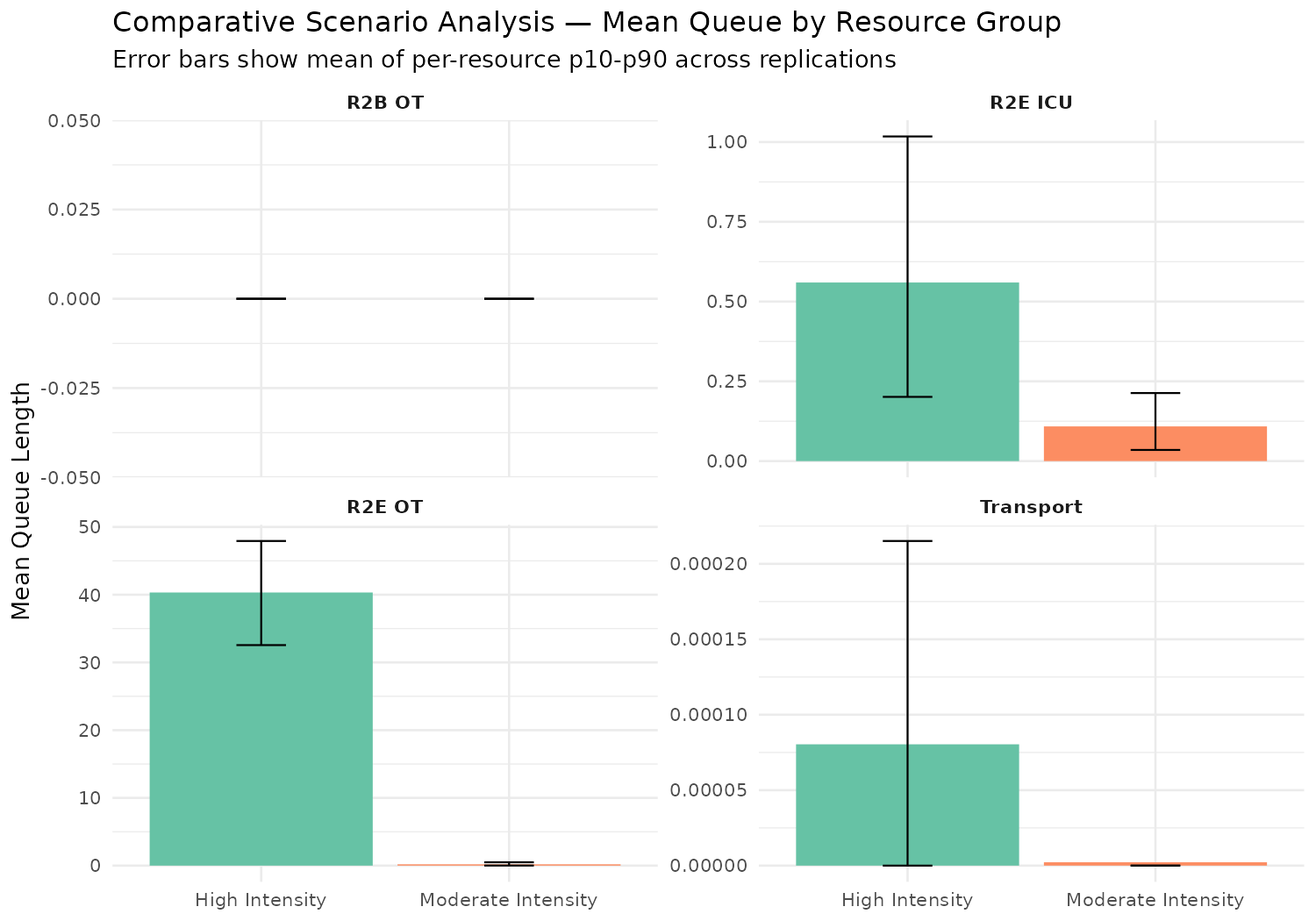
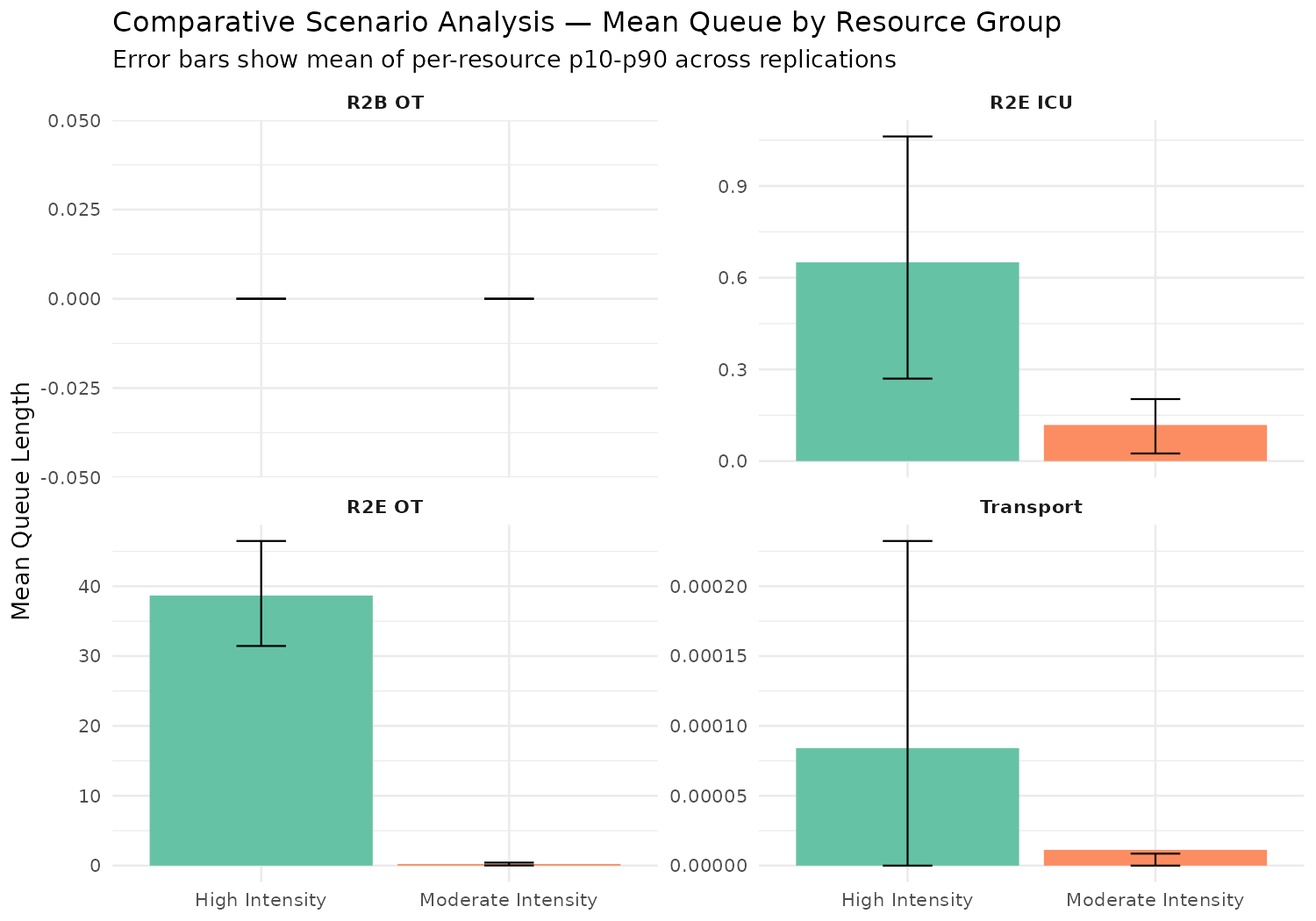
docs(issue-203): re-measure the comparative scenario tables without the rate cap
Total casualties per run are unmoved against the solved parameterisation the
cap removal replaced (moderate_intensity 441.5 to 441.6, high_intensity 1015.2
to 1015.7), which is the clearest confirmation that the two configurations
differ only in one draw rather than in distribution.

Every ratio between the profiles compresses against the pre-Issue-203
measurement, for a reason worth recording: moderate_intensity draws all six
streams from lognormals whose WIA and KIA arms had been realising about 79% of
their configured means, while high_intensity overrides its WIA and KIA streams
to exponential and those had been realising 95%. The baseline arm therefore
rises by a sixth and the surge arm by a twentieth, so the headline R2E theatre
queue ratio falls from roughly 430 to roughly 170 largely through its
denominator, the high_intensity queue itself moving only from 39.3 to 38.7.

The died-of-wounds rows are flagged as not a movement. Each is a single
50-replication measurement of a response averaging one death per replication,
resolved only to about a tenth of a percentage point at that count, and the
150-replication pooled treated-cohort figure for the same profile moved only
from 0.279% to 0.290% across the same change.

Refs #203

diff --git a/docs/Multi_Run_Analysis.md b/docs/Multi_Run_Analysis.md
@@ -6,7 +6,7 @@
 
 This document presents a multi-run (n≥30 replications, 95% confidence intervals) comparative analysis of the Battlefield Casualty Handling discrete event simulation under two named casualty-rate scenario profiles: `moderate_intensity` (a Falklands 1982-modified baseline, the same casualty rate underlying the illustrative single-run analysis in `docs/Single_Run_Analysis.md`) and `high_intensity` (an Okinawa exemplar, calibrated from FORECAS Tables A.7/A.9 [[1]](#references)). Where the single-run document establishes what the modelled deployed health system does under one seed and one casualty-rate assumption, this document establishes whether those findings are an artefact of that single draw and how the same system responds when casualty production is scaled to a materially higher intensity, using the project's multi-run replication framework, which executes independent stochastic replications of the discrete event simulation and aggregates outcomes as mean, 95% confidence interval, and p10–p90 range across runs.
 
-Across 50 replications of each scenario (30 simulated days, seed 42), the comparison confirms that the current establishment's adequacy conclusion does not extrapolate from Falklands to Okinawa intensity: mean total casualties per run rise 2.30-fold, the R2E Operating Theatre mean queue rises approximately 210-fold, the R2E Intensive Care Unit mean queue rises approximately 5.1-fold from a low base, the R2E Holding bed mean queue rises approximately 5.9-fold from a base already materially non-zero, and the R2B Holding bed mean queue rises approximately 6.8-fold, while R2B OT queue remains at zero in both scenarios — not because R2B absorbs any of the surge, but because the model's existing bypass routing diverts all surgical overflow to an already-saturated R2E. Died-of-wounds rate as a proportion of WIA rises from 0.44% to 1.03%. Transport (PMV Ambulance / HX240M) remains the one echelon with genuine headroom at both intensities.
+Across 50 replications of each scenario (30 simulated days, seed 42), the comparison confirms that the current establishment's adequacy conclusion does not extrapolate from Falklands to Okinawa intensity: mean total casualties per run rise 2.30-fold, the R2E Operating Theatre mean queue rises approximately 170-fold, the R2E Intensive Care Unit mean queue rises approximately 5.5-fold from a low base, the R2E Holding bed mean queue rises approximately 5.3-fold from a base already materially non-zero, and the R2B Holding bed mean queue rises approximately 7.2-fold, while R2B OT queue remains at zero in both scenarios — not because R2B absorbs any of the surge, but because the model's existing bypass routing diverts all surgical overflow to an already-saturated R2E. Died-of-wounds rate as a proportion of WIA rises from 0.55% to 0.90%. Transport (PMV Ambulance / HX240M) remains the one echelon with genuine headroom at both intensities.
 
 ## Contents
 
@@ -43,7 +43,7 @@ Two scenarios are compared — `moderate_intensity` (Falklands 1982 exemplar) an
 Rscript scripts/run_scenarios.R --scenarios moderate_intensity,high_intensity --iterations 50 --days 30 --seed 42
 ```
 
-`moderate_intensity` total casualties (441.5, 95% CI [441.1, 441.9]) match the documented seed-42 single-run baseline (443, `CLAUDE.md` Key Parameters) within 0.4%, confirming that the comparative runner reproduces the single-run baseline under the Falklands profile it is scenario-explicit about, consistent with the scenario mechanism's no-op guarantee for `default`.
+`moderate_intensity` total casualties (441.6, 95% CI [441.0, 442.2]) match the documented seed-42 single-run baseline (437, `CLAUDE.md` Key Parameters) within 1.1%, confirming that the comparative runner reproduces the single-run baseline under the Falklands profile it is scenario-explicit about, consistent with the scenario mechanism's no-op guarantee for `default`.
 
 ---
 
@@ -55,35 +55,35 @@ Rscript scripts/run_scenarios.R --scenarios moderate_intensity,high_intensity --
 
 | Metric | `moderate_intensity` (Falklands) | `high_intensity` (Okinawa) | Ratio |
 |---|---|---|---|
-| Total casualties/run | 441.5 (p10–p90: 440.0–443.0) | 1,015.2 (p10–p90: 1,012.0–1,019.0) | 2.30× |
-| WIA/run | 190.0 (189.0–191.0) | 686.6 (684.0–689.1) | 3.61× |
-| DOW/run | 0.84 (0–2.0) | 7.04 (3.0–11.0) | 8.38× |
-| DOW/WIA rate | 0.44% (95% CI [0.32%, 0.56%]) | 1.03% (95% CI [0.90%, 1.15%]) | 2.32× |
+| Total casualties/run | 441.6 (p10–p90: 439.0–444.1) | 1,015.7 (p10–p90: 1,012.9–1,019.0) | 2.30× |
+| WIA/run | 189.8 (188.0–192.0) | 686.8 (683.9–690.0) | 3.62× |
+| DOW/run | 1.04 (0–2.0) | 6.18 (3.0–10.0) | 5.94× |
+| DOW/WIA rate | 0.55% (95% CI [0.40%, 0.69%]) | 0.90% (95% CI [0.79%, 1.01%]) | 1.64× |
 
-The two died-of-wounds rows are each a single 50-replication measurement of a response averaging well under one death per replication at Falklands load, and 50 replications resolve a died-of-wounds rate only to roughly ±0.13 percentage points (see the README's [Further Development](../README.md#further-development) entry L22 for where that figure comes from). The intervals shown are correctly specified, the replications behind them being independent of one another (see the README's [Multi-run Replication Framework](../README.md#multi-run-replication-framework)); they are simply wide, and the `moderate_intensity` figure moves between control seeds by about as much as the interval spans. The figure to quote for that profile is therefore the 150-replication pooled one in the README's [Scenario Profiles](../README.md#scenario-profiles), 0.279% (95% CI [0.227%, 0.331%]) on the treated cohort, which this table's single measurement is one draw around, and the ratio between the two profiles should be read as approximate for the same reason. The queue rows below are better resolved at the same replication count: they are time-weighted occupancy measures with far more events behind each replication.
+The two died-of-wounds rows are each a single 50-replication measurement of a response averaging well under one death per replication at Falklands load, and 50 replications resolve a died-of-wounds rate only to roughly ±0.13 percentage points (see the README's [Further Development](../README.md#further-development) entry L22 for where that figure comes from). The intervals shown are correctly specified, the replications behind them being independent of one another (see the README's [Multi-run Replication Framework](../README.md#multi-run-replication-framework)); they are simply wide, and the `moderate_intensity` figure moves between control seeds by about as much as the interval spans. The figure to quote for that profile is therefore the 150-replication pooled one in the README's [Scenario Profiles](../README.md#scenario-profiles), 0.290% (95% CI [0.240%, 0.340%]) on the treated cohort, which this table's single measurement is one draw around, and the ratio between the two profiles should be read as approximate for the same reason. The queue rows below are better resolved at the same replication count: they are time-weighted occupancy measures with far more events behind each replication.
 
 ### Resource Queue Comparison (mean of per-resource mean queue, by group)
 
 | Resource group | `moderate_intensity` mean queue | `high_intensity` mean queue | Ratio |
 |---|---|---|---|
 | R2B OT | 0.000 | 0.000 | — |
-| R2B Hold | 0.514 | 3.496 | 6.81× |
-| R2E OT | 0.192 | 40.33 | 209.7× |
-| R2E ICU | 0.109 | 0.560 | 5.15× |
-| R2E Hold | 0.462 | 2.729 | 5.91× |
-| Transport (PMV Ambulance / HX240M) | 0.0000022 | 0.0000804 | 36.3× (negligible in both) |
+| R2B Hold | 0.482 | 3.452 | 7.16× |
+| R2E OT | 0.227 | 38.67 | 170.0× |
+| R2E ICU | 0.118 | 0.650 | 5.50× |
+| R2E Hold | 0.523 | 2.763 | 5.28× |
+| Transport (PMV Ambulance / HX240M) | 0.0000113 | 0.0000841 | 7.47× (negligible in both) |
 
 ![Comparative Scenario Analysis](../images/scenario_comparison.png)
 
 ### Interpretation
 
-The comparison exposes a structural fragility that the single-run baseline could not surface on its own, and it locates that fragility in the operating theatres. Mean R2E OT queue rises from 0.192 casualties at Falklands-equivalent load to 40.3 under `high_intensity`, a factor of roughly 210, which is by a wide margin the largest movement anywhere in the model. The mechanism is the surgical roster: a casualty seizes a theatre before it seizes one of the three surgical sections that staff them, so a room reads as queued while its occupant waits for staff, and at Okinawa-intensity arrival rates that wait dominates. R2E ICU rises from 0.109 to 0.560, a factor of 5.1, and is the flattest of the three R2E groups under surge: with only the damage control cohort taking a stabilisation episode, intensive care carries one episode for half the surgical population and two for the other half rather than two for everyone. R2E holding beds rise from 0.462 to 2.73, a factor of 5.9, and absorb what intensive care does not, since the holding bed is where a casualty goes when no intensive care bed is free and where those awaiting strategic evacuation stage.
+The comparison exposes a structural fragility that the single-run baseline could not surface on its own, and it locates that fragility in the operating theatres. Mean R2E OT queue rises from 0.227 casualties at Falklands-equivalent load to 38.7 under `high_intensity`, a factor of roughly 170, which is by a wide margin the largest movement anywhere in the model. The mechanism is the surgical roster: a casualty seizes a theatre before it seizes one of the three surgical sections that staff them, so a room reads as queued while its occupant waits for staff, and at Okinawa-intensity arrival rates that wait dominates. R2E ICU rises from 0.118 to 0.650, a factor of 5.5, and is the flattest of the three R2E groups under surge: with only the damage control cohort taking a stabilisation episode, intensive care carries one episode for half the surgical population and two for the other half rather than two for everyone. R2E holding beds rise from 0.523 to 2.76, a factor of 5.3, and absorb what intensive care does not, since the holding bed is where a casualty goes when no intensive care bed is free and where those awaiting strategic evacuation stage.
 
-R2B OT queue remains at 0 in both scenarios — not because R2B absorbs any of the surge, but because the OT-bypass routing diverts casualties requiring surgery to R2E whenever the theatre is busy or queued, or the surgical section is closed for longer than the pre-open hold window, rather than letting them wait; under `high_intensity`, this shunts the entire surge onto an R2E that has limited further capacity to absorb it. The hold window bounds how long a casualty may wait for a section about to reopen and so cannot produce a standing queue, which is why the queue reads zero even with the window open (see [The R2B Pre-Open Hold Window](#the-r2b-pre-open-hold-window)). R2B Hold bed queue — already identified as a Falklands-rate bottleneck (see the single-run analysis's [R2B Hold Bed Saturation](Single_Run_Analysis.md#r2b-hold-bed-saturation--stream-decomposition-and-intervention-analysis) finding) — increases roughly 7-fold (0.514 to 3.50), driven by the proportional increase in non-surgical WIA volume rather than any change to DNBI generation, since DNBI generation rate is not one of the parameters a scenario profile overrides.
+R2B OT queue remains at 0 in both scenarios — not because R2B absorbs any of the surge, but because the OT-bypass routing diverts casualties requiring surgery to R2E whenever the theatre is busy or queued, or the surgical section is closed for longer than the pre-open hold window, rather than letting them wait; under `high_intensity`, this shunts the entire surge onto an R2E that has limited further capacity to absorb it. The hold window bounds how long a casualty may wait for a section about to reopen and so cannot produce a standing queue, which is why the queue reads zero even with the window open (see [The R2B Pre-Open Hold Window](#the-r2b-pre-open-hold-window)). R2B Hold bed queue — already identified as a Falklands-rate bottleneck (see the single-run analysis's [R2B Hold Bed Saturation](Single_Run_Analysis.md#r2b-hold-bed-saturation--stream-decomposition-and-intervention-analysis) finding) — increases roughly 7-fold (0.482 to 3.45), driven by the proportional increase in non-surgical WIA volume rather than any change to DNBI generation, since DNBI generation rate is not one of the parameters a scenario profile overrides.
 
-Transport remains the one echelon with genuine headroom: mean queue stays a small fraction of a casualty even at 2.5× total casualty volume, consistent with the single-run analysis's [Transport Fleet Capacity Margin](Single_Run_Analysis.md#transport-fleet-capacity-margin) finding that the PMV Ambulance/HX240M pool is not the binding constraint at the Falklands-derived rate — though the roughly 36-fold rise in mean queue (still negligible in absolute terms, at well under one ten-thousandth of a casualty) indicates this margin is not unlimited, and a Vietnam/Okinawa-intensity re-run of the dedicated fleet-size sweep would be needed to establish exactly where it is exhausted.
+Transport remains the one echelon with genuine headroom: mean queue stays a small fraction of a casualty even at 2.5× total casualty volume, consistent with the single-run analysis's [Transport Fleet Capacity Margin](Single_Run_Analysis.md#transport-fleet-capacity-margin) finding that the PMV Ambulance/HX240M pool is not the binding constraint at the Falklands-derived rate — though the roughly 7-fold rise in mean queue (still negligible in absolute terms, at well under one ten-thousandth of a casualty) indicates this margin is not unlimited, and a Vietnam/Okinawa-intensity re-run of the dedicated fleet-size sweep would be needed to establish exactly where it is exhausted.
 
-DOW/WIA rate rises from 0.44% to 1.03%, a factor of roughly 2.3, and the confidence intervals do not overlap. The direction is the defensible finding rather than the factor itself, for the reasons given under the table: the Falklands-load figure moves across control seeds by about as much as its own interval spans, which is enough to shift the ratio between measurements without disturbing the conclusion, since the surge figure rests on roughly nine times as many deaths and is correspondingly better resolved. The mechanism is that at Okinawa intensity the deaths are driven by treatment queues deep enough that removing an intensive care episode and a theatre episode from half the operated population, which is what the surgical pathway split does, does not relieve them.
+DOW/WIA rate rises from 0.55% to 0.90%, a factor of roughly 1.6, and the confidence intervals do not overlap. The direction is the defensible finding rather than the factor itself, for the reasons given under the table: the Falklands-load figure moves across control seeds by about as much as its own interval spans, which is enough to shift the ratio between measurements without disturbing the conclusion, since the surge figure rests on roughly nine times as many deaths and is correspondingly better resolved. The mechanism is that at Okinawa intensity the deaths are driven by treatment queues deep enough that removing an intensive care episode and a theatre episode from half the operated population, which is what the surgical pathway split does, does not relieve them.
 
 ---
 
@@ -123,9 +123,13 @@ Three limits apply to this comparison. It was run at the shipped default configu
 
 <small>[Return to Top](#contents)</small>
 
-The system's resilience to surge is directly quantified rather than inferred. This multi-run comparison confirms that neither R2B nor R2E can absorb Okinawa-intensity casualty rates without fundamental redesign: R2E OT mean queue rises approximately 210-fold and R2E Hold mean queue approximately 6-fold relative to the Falklands-modified baseline, R2B Hold queue rises approximately 7-fold, and DOW/WIA rate rises by a factor of roughly 2.3 — all while R2B OT queue remains at zero only because the existing bypass routing shunts all surgical overflow onto an already-saturated R2E rather than R2B absorbing any of the surge itself. Effective LSCO medical support at Okinawa intensity would require scalable holding capacity at forward echelons, a deeper surgical roster at R2E, and dynamic load-balancing between R2B and R2E — capabilities the current static establishment does not provide.
+The system's resilience to surge is directly quantified rather than inferred. This multi-run comparison confirms that neither R2B nor R2E can absorb Okinawa-intensity casualty rates without fundamental redesign: R2E OT mean queue rises approximately 170-fold and R2E Hold mean queue approximately 5-fold relative to the Falklands-modified baseline, R2B Hold queue rises approximately 7-fold, and DOW/WIA rate rises by a factor of roughly 1.6 — all while R2B OT queue remains at zero only because the existing bypass routing shunts all surgical overflow onto an already-saturated R2E rather than R2B absorbing any of the surge itself. Effective LSCO medical support at Okinawa intensity would require scalable holding capacity at forward echelons, a deeper surgical roster at R2E, and dynamic load-balancing between R2B and R2E — capabilities the current static establishment does not provide.
 
-These figures were regenerated at 50 replications per scenario after the arrival generators were reparameterised so that each stream realises the daily mean its configuration names, and they supersede the comparison made while the per-minute rate cap was holding realised generation below it (see the README's [Casualty Generation](../README.md#casualty-generation)). Both profiles moved, and the interesting point is that they moved by different amounts, which is what compresses every ratio in the tables above. `moderate_intensity` draws all six streams from lognormals, whose WIA and KIA streams had been realising only about 79% of their configured means, so its totals rise sharply: total casualties from 381.1 to 441.5 per run and WIA from 151.1 to 190.0. `high_intensity` overrides its WIA and KIA streams to exponential, and an exponential stream had been realising 95% of its mean whatever that mean was, so it gains only what that 5% and its lognormal DNBI streams give it: total casualties from 972.5 to 1,015.2. The surge arm therefore barely moves while the baseline arm rises by a sixth, and the headline R2E OT ratio halves from roughly 430 to roughly 210 almost entirely because its denominator grew rather than because the surge eased: the `high_intensity` mean OT queue itself moves only from 39.3 to 40.3. The qualitative conclusion is unchanged and the quantitative one is now measured against generation rates the configuration actually delivers. The run was made in an unpinned R 4.3.3 sandbox rather than the project's pinned Dev Container, under the same caveat as the other figures refreshed alongside it (see `CLAUDE.md`'s Key Parameters provenance caveats). `images/scenario_comparison.png` was regenerated alongside the tables by the command given above. A comparable Vietnam-intensity comparison remains unavailable pending a genuine FORECAS-sourced Vietnam combat-troop WIA/KIA table.
+These figures were regenerated at 50 replications per scenario after the per-minute rate cap was removed from the arrival generators, and they supersede the comparison made while that cap was holding realised generation below the rates the configuration named (see the README's [Casualty Generation](../README.md#casualty-generation)). Both profiles moved, and the interesting point is that they moved by different amounts, which is what compresses every ratio in the tables above. `moderate_intensity` draws all six streams from lognormals, whose WIA and KIA arms had been realising only about 79% of their configured means, so its totals rise sharply: total casualties from 381.1 to 441.6 per run and WIA from 151.1 to 189.8. `high_intensity` overrides its WIA and KIA streams to exponential, and an exponential stream had been realising 95% of its mean whatever that mean was, so it gains only what that 5% and its lognormal DNBI streams give it: total casualties from 972.5 to 1,015.7. The surge arm therefore barely moves while the baseline arm rises by a sixth, and the headline R2E theatre queue ratio falls from roughly 430 to roughly 170 largely because its denominator grew rather than because the surge eased: the `high_intensity` mean theatre queue itself moves only from 39.3 to 38.7.
+
+The died-of-wounds rows are the exception to that reading, and should not be interpreted as a movement at all. Each is a single 50-replication measurement of a response averaging one death per replication at Falklands load, which the README's [Further Development](../README.md#further-development) entry L22 shows is resolved only to roughly a tenth of a percentage point at that replication count. The `moderate_intensity` DOW/WIA rate reads 0.55% here against 0.44% in the previous measurement, a gap well inside that resolution, while the 150-replication pooled treated-cohort figure for the same profile moved only from 0.279% to 0.290%. The queue and occupancy rows above are time-weighted over far more events per replication and are correspondingly better resolved.
+
+The qualitative conclusion is unchanged and the quantitative one is now measured against generation rates the configuration actually delivers. The run was made in an unpinned R 4.3.3 sandbox rather than the project's pinned Dev Container, under the same caveat as the other figures refreshed alongside it (see `CLAUDE.md`'s Key Parameters provenance caveats). `images/scenario_comparison.png` was regenerated alongside the tables by the command given above. A comparable Vietnam-intensity comparison remains unavailable pending a genuine FORECAS-sourced Vietnam combat-troop WIA/KIA table.
 
 ---
 

diff --git a/CLAUDE.md b/CLAUDE.md
@@ -512,7 +512,7 @@ These are the validated baseline values from the current single-run analysis. Re
 
 > Three things about the measurement. Removing the cap leaves one bound on the drawn rate, and it is a property of the emission logic rather than a parameter: a minute whose accumulated rate crosses more than one whole casualty discards the remainder without reporting it. `scripts/check_arrival_rate_fidelity.R` is new and measures the distance to that ceiling for every shipped stream rather than assuming it is far, alongside the realised mean and its invariance to `sd_daily`; the expected loss runs from 5e-3 casualties per 30-day run on the combat WIA stream down to 1e-149 on `high_intensity` KIA. The realised mean is now invariant to `sd_daily`, spanning 0.010 casualties per day across coefficients of variation from 0.28 to 4.52 against 0.707 under the cap. And the per-resource utilisation and queue rows below are measured as busy time against the run's full observation window at the resource group's summed capacity, the basis on which the pre-change run reproduces every previously published per-resource figure exactly; the R2E surgical section rows are the one exception, re-based here onto each section's own rostered capacity trace because the previous basis could not be reconstructed, and the pre-change run measures 21.4/33.3/14.8 on the basis used here.
 
-> The multi-replication work is the died-of-wounds calibration at 150 replications per shipped configuration and the 50-replication comparative scenario tables in `docs/Multi_Run_Analysis.md`, both re-measured; `images/scenario_comparison.png` was regenerated with them. `data/arrivals_*.txt`, `logs/logs.txt` and `images/*.png` **were** regenerated and committed as one set from a single `--refresh-baseline` invocation, following the Issue #154 precedent. The `Welch ICU-queue CMA` row, `images/welch_plot_icu_queue.png`, `images/r2b_icu_share_frontier.png`, the R2B pre-open hold window comparison in `docs/Multi_Run_Analysis.md` and the published Morris ranking were **not** re-run and are flagged as such below and in those documents; the Morris set is unchanged, no parameter being added or removed by this issue.
+> The multi-replication work is the died-of-wounds calibration at 150 replications per shipped configuration and the 50-replication comparative scenario tables in `docs/Multi_Run_Analysis.md`, both re-measured; `images/scenario_comparison.png` was regenerated with them. Total casualties per run under `moderate_intensity` measure 441.6 (95% CI [441.0, 442.2]) against the 437 of this seed-42 run, and under `high_intensity` 1,015.7 ([1,014.9, 1,016.5]); every ratio in the comparative tables compresses, because `moderate_intensity` draws all six streams from lognormals whose WIA and KIA arms had been realising about 79% of their means while `high_intensity` overrides its WIA and KIA streams to exponential, which had been realising 95%. `data/arrivals_*.txt`, `logs/logs.txt` and `images/*.png` **were** regenerated and committed as one set from a single `--refresh-baseline` invocation, following the Issue #154 precedent. The `Welch ICU-queue CMA` row, `images/welch_plot_icu_queue.png`, `images/r2b_icu_share_frontier.png`, the R2B pre-open hold window comparison in `docs/Multi_Run_Analysis.md` and the published Morris ranking were **not** re-run and are flagged as such below and in those documents; the Morris set is unchanged, no parameter being added or removed by this issue.
 
 | Metric | Baseline value |
 |---|---|
